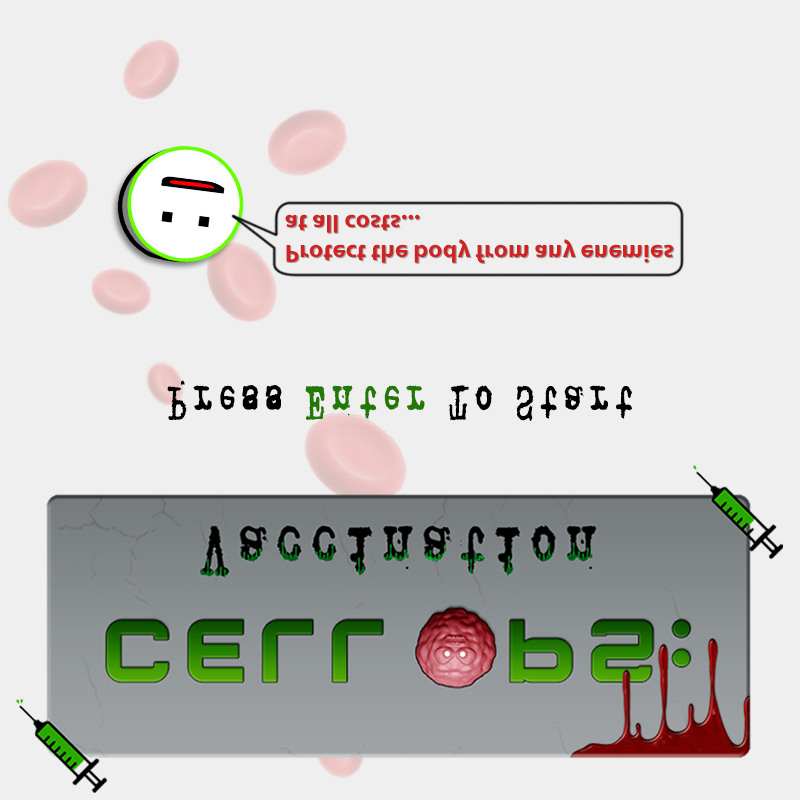
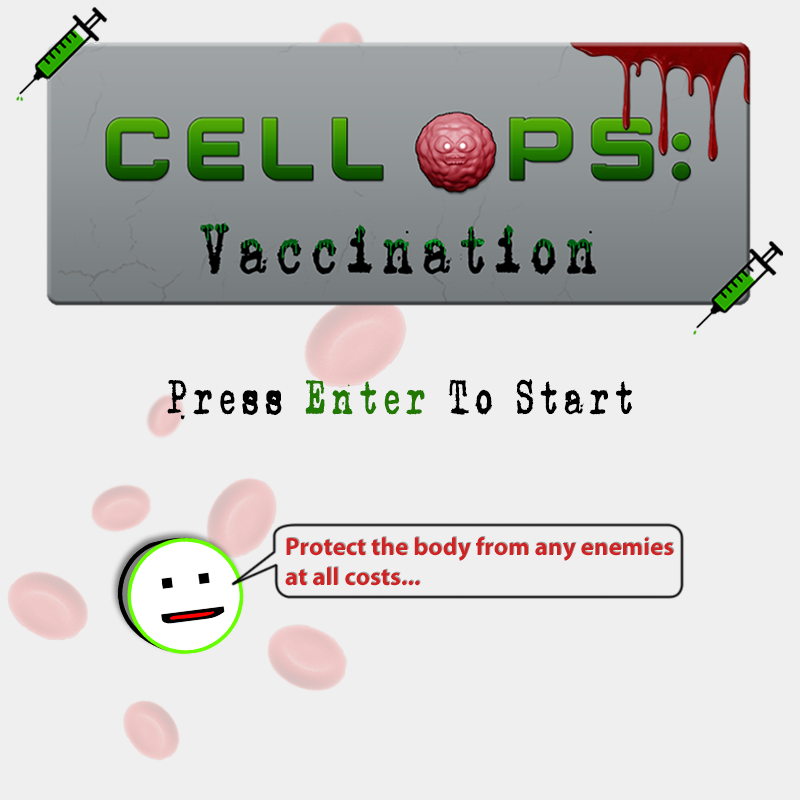
Fixed game starting conditions

diff --git a/C++ Game/projects/Cell-Ops-Vaccination-Update/src/Application/Layers/DefaultSceneLayer.cpp b/C++ Game/projects/Cell-Ops-Vaccination-Update/src/Application/Layers/DefaultSceneLayer.cpp
@@ -520,19 +520,19 @@ void DefaultSceneLayer::_CreateScene()
 			YellowMicrobiotaMaterial->Set("u_Material.Shininess", 0.1f);
 		}
 
-		// Create some lights for our scene
-		GameObject::Sptr lightParent = scene->CreateGameObject("Lights");
+		//// Create some lights for our scene
+		//GameObject::Sptr lightParent = scene->CreateGameObject("Lights");
 
-		for (int ix = 0; ix < 50; ix++) {
-			GameObject::Sptr light = scene->CreateGameObject("Light");
-			light->SetPostion(glm::vec3(glm::diskRand(25.0f), 1.0f));
-			lightParent->AddChild(light);
+		//for (int ix = 0; ix < 50; ix++) {
+		//	GameObject::Sptr light = scene->CreateGameObject("Light");
+		//	light->SetPostion(glm::vec3(glm::diskRand(25.0f), 1.0f));
+		//	lightParent->AddChild(light);
 
-			Light::Sptr lightComponent = light->Add<Light>();
-			lightComponent->SetColor(glm::linearRand(glm::vec3(0.0f), glm::vec3(1.0f)));
-			lightComponent->SetRadius(glm::linearRand(0.1f, 10.0f));
-			lightComponent->SetIntensity(glm::linearRand(1.0f, 2.0f));
-		}
+		//	Light::Sptr lightComponent = light->Add<Light>();
+		//	lightComponent->SetColor(glm::linearRand(glm::vec3(0.0f), glm::vec3(1.0f)));
+		//	lightComponent->SetRadius(glm::linearRand(0.1f, 10.0f));
+		//	lightComponent->SetIntensity(glm::linearRand(1.0f, 2.0f));
+		//}
 
 
 
@@ -601,6 +601,12 @@ void DefaultSceneLayer::_CreateScene()
 
 		GameObject::Sptr TopEnemySpawner = scene->CreateGameObject("Enemy Spawner Top");
 		{
+			Light::Sptr lightComponent = TopEnemySpawner->Add<Light>();
+			lightComponent->SetColor(glm::vec3(0.0f));
+			lightComponent->SetIntensity(1.0f);
+			lightComponent->SetRadius(1000.0f);
+
+
 			TopEnemySpawner->SetPostion(glm::vec3(0.0f, 0.0f, 100.0f));
 			TopEnemySpawner->Add<EnemySpawnerBehaviour>();
 

diff --git a/C++ Game/projects/Cell-Ops-Vaccination-Update/src/Gameplay/Scene.cpp b/C++ Game/projects/Cell-Ops-Vaccination-Update/src/Gameplay/Scene.cpp
@@ -546,13 +546,12 @@ namespace Gameplay {
 			}
 			//Start
 			if (InputEngine::GetKeyState(GLFW_KEY_ENTER) == ButtonState::Pressed) {
-				if (!IsPlaying && !GameStarted && IsTutorialFinish) {
-					IsPlaying = true;
+				if (!GameStarted && IsTutorialFinish) {
 					GameStarted = true;
 					GameStart();
 				}
 				else {
-					if (FindObjectByName("Tutorial")) {
+					if (FindObjectByName("Tutorial")&&!IsTutorialFinish) {
 						UiControllerObject->Get<UiController>()->GameTutorial("Start", 2);
 						IsTutorialFinish = true;
 					}
@@ -560,7 +559,7 @@ namespace Gameplay {
 						UiControllerObject->Get<UiController>()->GameTutorial("Start", 1);
 				}
 			}
-			if (IsPlaying) {
+			if (GameStarted) {
 				if (IsBackGroundPlaying) {
 					BackgroundLoopCounter += Timing::Current().DeltaTime();
 					if (BackgroundLoopCounter > 19.0f) {
@@ -605,7 +604,6 @@ namespace Gameplay {
 				IsGameWon = false;
 				GameStarted = false;
 				IsTitleUp = false;
-				IsPlaying = false;
 
 				Application& app = Application::Get();
 				app.LoadScene("scene.json");

diff --git a/C++ Game/projects/Cell-Ops-Vaccination-Update/src/Gameplay/Components/TargetController.cpp b/C++ Game/projects/Cell-Ops-Vaccination-Update/src/Gameplay/Components/TargetController.cpp
@@ -66,8 +66,8 @@ void TargetController::Spawntargets()
 		{
 			Target->SetPostion(TargetPositions[i]);;
 			
-			/*Target->Add<ParticleSystem>();
-			Target->Get<ParticleSystem>()->AddEmitter(Target->GetPosition(), glm::vec3(0.0f, 0.0f, 0.0f), 1.0f, glm::vec4(0.0f, 1.0f, 0.0f, 0.0f));*/
+			Target->Add<ParticleSystem>();
+			Target->Get<ParticleSystem>()->AddEmitter(Target->GetPosition(), glm::vec3(0.0f, 0.0f, 0.0f), 1.0f, glm::vec4(0.0f, 1.0f, 0.0f, 0.0f));
 			
 
 			// Add a render component

diff --git a/C++ Game/projects/Cell-Ops-Vaccination-Update/src/Gameplay/Components/SimpleCameraControl.cpp b/C++ Game/projects/Cell-Ops-Vaccination-Update/src/Gameplay/Components/SimpleCameraControl.cpp
@@ -14,7 +14,7 @@ SimpleCameraControl::SimpleCameraControl() :
 	IComponent(),
 	_mouseSensitivity({ 0.5f, 0.3f }),
 	_moveSpeeds(glm::vec3(1.0f)),
-	_shiftMultipler(2.0f),
+	_shiftMultipler(4.0f),
 	_currentRot(glm::vec2(0.0f)),
 	_isMousePressed(false),
 	isAbilityActive(false)

diff --git a/C++ Game/projects/Cell-Ops-Vaccination-Update/src/Application/Application.cpp b/C++ Game/projects/Cell-Ops-Vaccination-Update/src/Application/Application.cpp
@@ -80,7 +80,7 @@ Application::Application() :
 	_window(nullptr),
 	_windowSize({DEFAULT_WINDOW_WIDTH, DEFAULT_WINDOW_HEIGHT}),
 	_isRunning(false),
-	_isEditor(true),
+	_isEditor(false),
 	_windowTitle("Cell Ops Vaccination"),
 	_currentScene(nullptr),
 	_targetScene(nullptr)
